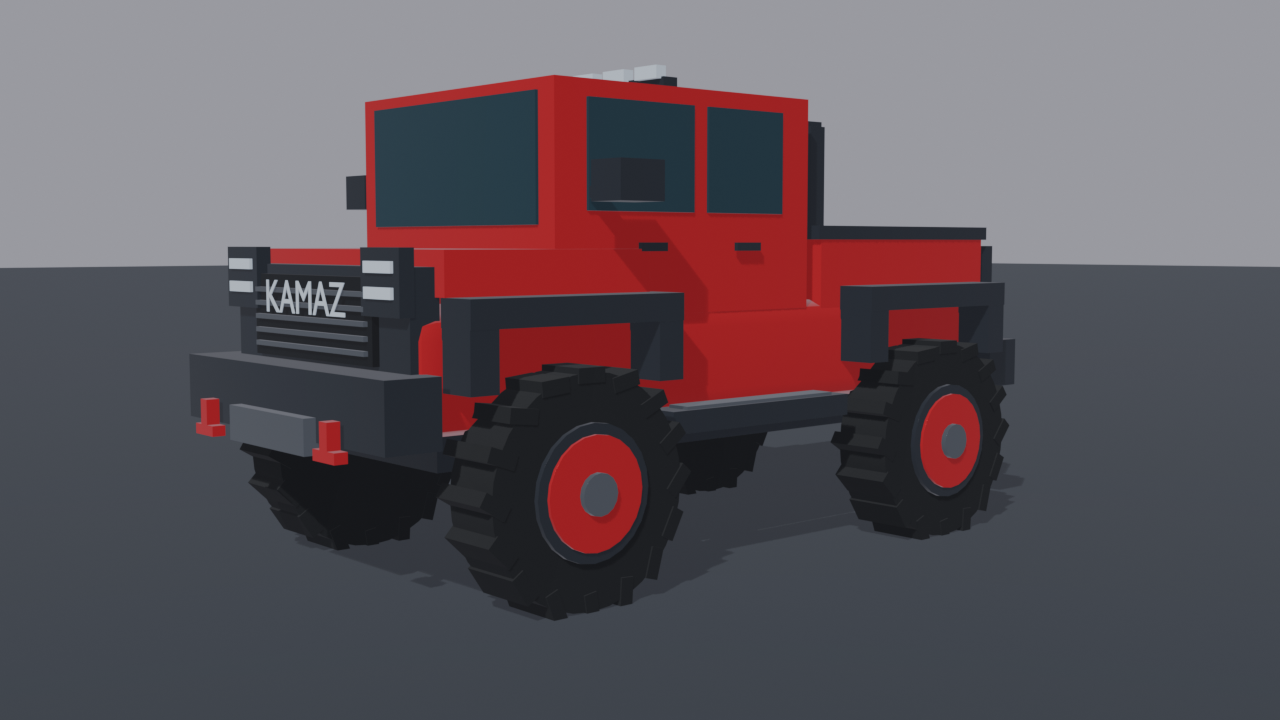
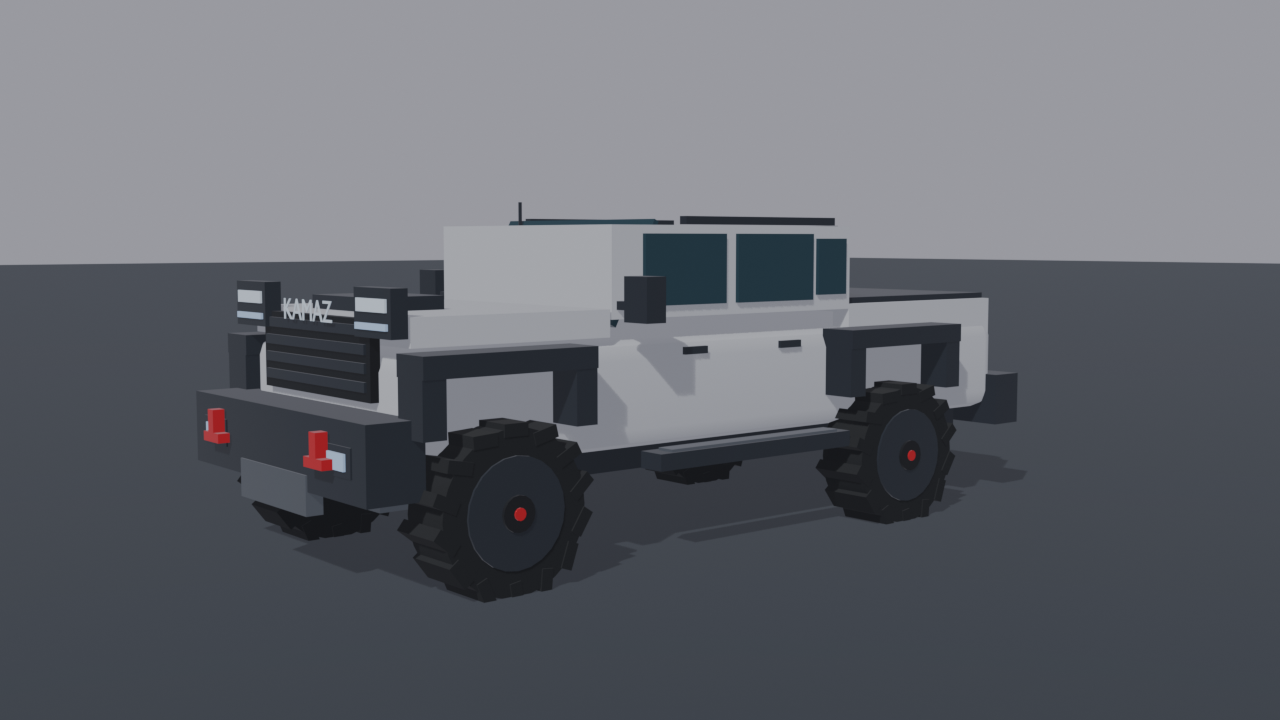
Fix запуска: чужой .sig (копия pakchunk44) давал Corrupt data found — README: ставить только .pak, sig удалён из релиза; Patch 2: блокаут переработан под референс Rager (двойная кабина, tonneau, лифт, обвес, рейлинги, DRL)

diff --git a/kamaz_scum_blockout.py b/kamaz_scum_blockout.py
@@ -24,13 +24,15 @@ def mat(name, color, metallic=0.0, roughness=0.45):
     bsdf.inputs['Roughness'].default_value = roughness
     return m
 
-RED = mat('Paint | KAMAZ Red', (0.72, 0.018, 0.028), 0.42, 0.25)
+BODY = mat('Paint | Urban Camo Light', (0.62, 0.64, 0.66), 0.12, 0.42)
+RED = mat('Accent | Tow Hook Red', (0.72, 0.018, 0.028), 0.42, 0.25)
 BLACK = mat('Trim | Graphite Black', (0.025, 0.032, 0.042), 0.22, 0.34)
 RUBBER = mat('Rubber', (0.012, 0.014, 0.016), 0.0, 0.82)
 GLASS = mat('Glass | Dark Tinted', (0.018, 0.055, 0.075), 0.18, 0.16)
 METAL = mat('Metal | Gunmetal', (0.16, 0.18, 0.20), 0.72, 0.3)
 WHITE = mat('LED | Cool White', (0.8, 0.92, 1.0), 0.15, 0.18)
 DARK = mat('Grille Recess', (0.006, 0.008, 0.01), 0.05, 0.5)
+DRL = mat('LED | Ice Blue', (0.55, 0.75, 1.0), 0.15, 0.2)
 
 # Collections for a tidy hierarchy
 root = bpy.context.scene.collection
@@ -81,103 +83,103 @@ def text_obj(name, body, loc, size, material, rot=(math.pi/2,0,0), extrude=0.002
     return ob
 
 # Chassis / underbody
-cube('Chassis | ladder frame', (0, 0.05, 0.82), (1.48, 3.95, 0.22), BLACK, 0.06)
-cube('Underbody skid plate', (0, -1.05, 0.68), (1.5, 0.8, 0.12), METAL, 0.04)
+cube('Chassis | ladder frame', (0, 0.1, 0.62), (1.42, 4.60, 0.18), BLACK, 0.06)
+cube('Underbody skid plate', (0, -1.90, 0.52), (1.40, 0.90, 0.10), METAL, 0.04)
 
-# Main body panels
-cube('Lower body shell', (0, 0.0, 1.18), (1.82, 4.25, 0.58), RED, 0.12)
-cube('Hood', (0, -1.38, 1.66), (1.88, 1.25, 0.22), RED, 0.10)
-cube('Front fascia', (0, -2.06, 1.40), (1.72, 0.16, 0.58), BLACK, 0.05)
+# Main body panels (Ranger Raptor-style proportions: long hood, double cab, long bed)
+cube('Lower body shell', (0, 0.15, 1.00), (1.84, 4.90, 0.64), BODY, 0.12)
+cube('Hood', (0, -1.62, 1.42), (1.80, 1.30, 0.16), BODY, 0.10)
+cube('Hood scoop', (0, -1.95, 1.53), (0.62, 0.50, 0.10), BLACK, 0.04)
 
-# Double cab: cabin body, windshield and rear glass
-cube('Cab shell', (0, -0.42, 2.02), (1.78, 1.82, 1.18), RED, 0.11)
-cube('Windshield dark glass', (0, -1.33, 2.22), (1.52, 0.035, 0.66), GLASS, 0.025)
-cube('Rear cab window', (0, 0.49, 2.22), (1.43, 0.035, 0.62), GLASS, 0.02)
-# Side windows on both sides, front and rear door windows
+# Double cab greenhouse: raked windshield, four door windows, quarter glass, rear glass
+cube('Cab shell', (0, 0.05, 1.71), (1.78, 2.00, 0.54), BODY, 0.11)
+windshield = cube('Windshield dark glass', (0, -0.66, 1.70), (1.50, 0.035, 0.70), GLASS, 0.025)
+windshield.rotation_euler[0] = math.radians(-28)
+cube('Rear cab window', (0, 1.05, 1.72), (1.42, 0.035, 0.50), GLASS, 0.02)
 for side in (-1, 1):
-    x = side * 0.89
-    cube(f'Front side window {side}', (x, -0.77, 2.24), (0.035, 0.72, 0.56), GLASS, 0.025)
-    cube(f'Rear side window {side}', (x, -0.02, 2.24), (0.035, 0.57, 0.56), GLASS, 0.025)
+    x = side * 0.90
+    cube(f'Front side window {side}', (x, -0.40, 1.72), (0.035, 0.64, 0.42), GLASS, 0.025)
+    cube(f'Rear side window {side}', (x, 0.35, 1.72), (0.035, 0.66, 0.42), GLASS, 0.025)
+    cube(f'Quarter window {side}', (x, 0.86, 1.72), (0.035, 0.26, 0.36), GLASS, 0.02)
     # door seam accents and handles
-    for y in (-0.72, -0.03):
-        cube(f'Door handle {side} {y}', (side*0.928, y, 1.78), (0.025, 0.18, 0.045), BLACK, 0.012)
-    cube(f'Side mirror arm {side}', (side*1.04, -1.10, 2.05), (0.23, 0.08, 0.06), BLACK, 0.02)
-    cube(f'Side mirror housing {side}', (side*1.17, -1.10, 2.10), (0.22, 0.28, 0.20), BLACK, 0.04)
+    for y in (-0.35, 0.45):
+        cube(f'Door handle {side} {y}', (side*0.935, y, 1.24), (0.025, 0.18, 0.045), BLACK, 0.012)
+    cube(f'Side mirror arm {side}', (side*0.97, -0.88, 1.52), (0.16, 0.07, 0.05), BLACK, 0.02)
+    cube(f'Side mirror housing {side}', (side*1.10, -0.88, 1.56), (0.20, 0.14, 0.26), BLACK, 0.04)
     # side steps
-    cube(f'Running board {side}', (side*0.99, -0.05, 0.88), (0.20, 1.35, 0.12), BLACK, 0.035)
-    cube(f'Step metal insert {side}', (side*1.00, -0.05, 0.948), (0.14, 1.12, 0.018), METAL, 0.008)
+    cube(f'Running board {side}', (side*1.00, 0.05, 0.62), (0.18, 1.60, 0.10), BLACK, 0.035)
+    cube(f'Step metal insert {side}', (side*1.01, 0.05, 0.678), (0.12, 1.40, 0.016), METAL, 0.008)
 
-# Pickup bed, rails and tailgate
-cube('Bed floor', (0, 1.40, 1.35), (1.62, 1.48, 0.12), BLACK, 0.035)
+# Pickup bed: body-color walls, black tonneau cover, tailgate lettering
+cube('Bed floor', (0, 1.80, 1.24), (1.56, 1.42, 0.06), BLACK, 0.035)
 for side in (-1,1):
-    cube(f'Bed side wall {side}', (side*0.82, 1.40, 1.60), (0.12, 1.55, 0.48), RED, 0.05)
-    cube(f'Bed top rail {side}', (side*0.82, 1.40, 1.86), (0.15, 1.62, 0.08), BLACK, 0.025)
-# Tailgate rear face
-cube('Tailgate', (0, 2.20, 1.57), (1.55, 0.12, 0.50), RED, 0.06)
-text_obj('Tailgate KAMAZ lettering', 'KAMAZ', (0, 2.267, 1.61), 0.24, BLACK, rot=(math.pi/2, 0, math.pi), extrude=0.001)
+    cube(f'Bed side wall {side}', (side*0.82, 1.80, 1.34), (0.14, 1.50, 0.26), BODY, 0.05)
+cube('Bed tonneau cover', (0, 1.80, 1.48), (1.66, 1.50, 0.06), BLACK, 0.025)
+cube('Tailgate', (0, 2.58, 1.28), (1.50, 0.12, 0.42), BODY, 0.06)
+text_obj('Tailgate KAMAZ lettering', 'KAMAZ', (0, 2.647, 1.31), 0.20, BLACK, rot=(math.pi/2, 0, math.pi), extrude=0.001)
 
-# Grille and brand lettering on front (front face is -Y)
-cube('Main grille recess', (0, -2.155, 1.43), (1.18, 0.045, 0.42), DARK, 0.025)
-for z in (1.28, 1.35, 1.42, 1.49, 1.56):
-    cube(f'Grille horizontal slat {z}', (0, -2.184, z), (1.10, 0.035, 0.025), METAL, 0.008)
-text_obj('Front KAMAZ lettering', 'KAMAZ', (0, -2.215, 1.52), 0.24, WHITE, rot=(math.pi/2,0,0), extrude=0.002)
-# Headlights and lower fog lamps
+# Grille, lettering and headlights on the -Y face
+cube('Main grille recess', (0, -2.32, 1.26), (1.24, 0.06, 0.44), DARK, 0.025)
+for z in (1.12, 1.22, 1.32, 1.42):
+    cube(f'Grille horizontal slat {z}', (0, -2.348, z), (1.16, 0.035, 0.055), BLACK, 0.012)
+text_obj('Front KAMAZ lettering', 'KAMAZ', (0, -2.392, 1.50), 0.17, WHITE, rot=(math.pi/2,0,0), extrude=0.002)
+# Angular LED headlamps with ice-blue DRL strips, fog lamps in the bumper
 for side in (-1,1):
-    cube(f'Headlamp housing {side}', (side*0.70, -2.16, 1.62), (0.34, 0.08, 0.32), BLACK, 0.035)
-    cube(f'Headlamp LED upper {side}', (side*0.70, -2.208, 1.69), (0.24, 0.018, 0.055), WHITE, 0.012)
-    cube(f'Headlamp LED lower {side}', (side*0.70, -2.208, 1.57), (0.24, 0.018, 0.055), WHITE, 0.012)
-    cube(f'Fog lamp housing {side}', (side*0.70, -2.12, 1.10), (0.38, 0.12, 0.18), BLACK, 0.025)
-    for i in range(3):
-        cyl(f'Fog LED {side} {i}', (side*0.70 + (i-1)*0.095, -2.195, 1.10), 0.035, 0.018, WHITE, vertices=12, rot=(math.pi/2,0,0))
+    cube(f'Headlamp housing {side}', (side*0.72, -2.34, 1.52), (0.38, 0.10, 0.26), BLACK, 0.035)
+    cube(f'Headlamp LED main {side}', (side*0.72, -2.394, 1.56), (0.30, 0.018, 0.07), WHITE, 0.012)
+    cube(f'Headlamp DRL strip {side}', (side*0.72, -2.396, 1.45), (0.32, 0.018, 0.035), DRL, 0.012)
+    cube(f'Fog lamp housing {side}', (side*0.74, -2.55, 0.78), (0.30, 0.14, 0.16), BLACK, 0.025)
+    cube(f'Fog LED {side}', (side*0.74, -2.625, 0.78), (0.20, 0.018, 0.09), DRL, 0.012)
 
-# Front and rear armored bumpers
-cube('Front armored bumper', (0, -2.22, 1.03), (2.02, 0.30, 0.34), BLACK, 0.07)
-cube('Front bumper center skid', (0, -2.395, 0.89), (0.78, 0.08, 0.18), METAL, 0.035)
-cube('Rear armored bumper', (0, 2.28, 1.02), (1.98, 0.28, 0.30), BLACK, 0.06)
-# Tow shackles (stylized as red bars + bottom bar)
-for y, label in ((-2.43,'Front'), (2.45,'Rear')):
+# Front and rear armored bumpers with skid plates
+cube('Front armored bumper', (0, -2.44, 0.78), (2.06, 0.34, 0.42), BLACK, 0.07)
+cube('Front bumper center skid', (0, -2.57, 0.55), (0.80, 0.10, 0.22), METAL, 0.035)
+cube('Rear armored bumper', (0, 2.64, 0.74), (2.00, 0.26, 0.36), BLACK, 0.06)
+cube('Rear bumper skid', (0, 2.72, 0.50), (0.70, 0.08, 0.14), METAL, 0.035)
+# Red tow shackles in both bumpers
+for y, label in ((-2.66,'Front'), (2.81,'Rear')):
     for side in (-1,1):
         x = side*0.63
-        cube(f'{label} tow shackle stem {side}', (x, y, 0.91), (0.07, 0.07, 0.16), RED, 0.025)
-        cube(f'{label} tow shackle base {side}', (x, y, 0.83), (0.20, 0.07, 0.055), RED, 0.025)
+        cube(f'{label} tow shackle stem {side}', (x, y, 0.84), (0.07, 0.07, 0.16), RED, 0.025)
+        cube(f'{label} tow shackle base {side}', (x, y, 0.76), (0.20, 0.07, 0.055), RED, 0.025)
 
-# Wheels: four chunky tires, rims, red rings and simplified tread blocks
-wheel_y = (-1.35, 1.42)
-wheel_z = 0.61
+# Wheels: lifted stance, chunky mud-terrain tires, gunmetal rims, red hub caps
+wheel_y = (-1.80, 1.35)
+wheel_z = 0.47
 for axle, y in enumerate(wheel_y):
     for side in (-1,1):
-        x = side*1.02
+        x = side*0.98
         # Cylinder axis is X (rotated 90 degrees around Y)
-        tire = cyl(f'Tire | axle {axle+1} | side {side}', (x, y, wheel_z), 0.58, 0.34, RUBBER, vertices=32, rot=(0, math.pi/2, 0))
-        rim = cyl(f'Wheel rim | axle {axle+1} | side {side}', (x + side*0.18, y, wheel_z), 0.34, 0.035, BLACK, vertices=24, rot=(0, math.pi/2, 0))
-        ring = cyl(f'Red rim ring | axle {axle+1} | side {side}', (x + side*0.202, y, wheel_z), 0.285, 0.025, RED, vertices=24, rot=(0, math.pi/2, 0))
-        hub = cyl(f'Hub | axle {axle+1} | side {side}', (x + side*0.225, y, wheel_z), 0.105, 0.04, METAL, vertices=16, rot=(0, math.pi/2, 0))
+        tire = cyl(f'Tire | axle {axle+1} | side {side}', (x, y, wheel_z), 0.45, 0.34, RUBBER, vertices=32, rot=(0, math.pi/2, 0))
+        rim = cyl(f'Wheel rim | axle {axle+1} | side {side}', (x + side*0.155, y, wheel_z), 0.29, 0.04, METAL, vertices=24, rot=(0, math.pi/2, 0))
+        ring = cyl(f'Rim lip | axle {axle+1} | side {side}', (x + side*0.175, y, wheel_z), 0.305, 0.02, BLACK, vertices=24, rot=(0, math.pi/2, 0))
+        hub = cyl(f'Hub | axle {axle+1} | side {side}', (x + side*0.178, y, wheel_z), 0.10, 0.05, DARK, vertices=16, rot=(0, math.pi/2, 0))
+        cap = cyl(f'Hub cap | axle {axle+1} | side {side}', (x + side*0.203, y, wheel_z), 0.035, 0.02, RED, vertices=12, rot=(0, math.pi/2, 0))
         # Tread lugs arranged around the tire circumference; deliberately low-detail for game blockout
-        for j in range(16):
-            a = 2*math.pi*j/16
-            yy = y + 0.565*math.sin(a)
-            zz = wheel_z + 0.565*math.cos(a)
-            lug = cube(f'Tread lug {axle}-{side}-{j}', (x, yy, zz), (0.36, 0.16, 0.075), RUBBER, 0.018)
+        for j in range(14):
+            a = 2*math.pi*j/14
+            yy = y + 0.44*math.sin(a)
+            zz = wheel_z + 0.44*math.cos(a)
+            lug = cube(f'Tread lug {axle}-{side}-{j}', (x, yy, zz), (0.36, 0.15, 0.07), RUBBER, 0.018)
             lug.rotation_euler[0] = a * 0.55
-        # Fender flares: broad simplified arches represented by upper and side armor pieces
-        cube(f'Fender flare top {axle}-{side}', (side*1.02, y, 1.48), (0.24, 1.30, 0.14), BLACK, 0.045)
-        cube(f'Fender flare front cheek {axle}-{side}', (side*1.02, y-0.57, 1.30), (0.23, 0.16, 0.38), BLACK, 0.035)
-        cube(f'Fender flare rear cheek {axle}-{side}', (side*1.02, y+0.57, 1.30), (0.23, 0.16, 0.38), BLACK, 0.035)
+        # Fender flares: broad black arches over each wheel
+        cube(f'Fender flare top {axle}-{side}', (side*1.02, y, 1.26), (0.26, 1.10, 0.12), BLACK, 0.045)
+        cube(f'Fender flare front cheek {axle}-{side}', (side*1.02, y-0.48, 1.06), (0.24, 0.14, 0.34), BLACK, 0.035)
+        cube(f'Fender flare rear cheek {axle}-{side}', (side*1.02, y+0.48, 1.06), (0.24, 0.14, 0.34), BLACK, 0.035)
 
-# Roof rack / light bar
-cube('Roof light bar support', (0, -0.35, 2.66), (1.30, 0.10, 0.07), BLACK, 0.025)
-for i in range(5):
-    x = (i-2)*0.27
-    cube(f'Roof LED {i}', (x, -0.40, 2.72), (0.18, 0.07, 0.07), WHITE, 0.018)
-# Rear sports bar / bed roll bar
+# Roof rails and antenna
 for side in (-1,1):
-    cube(f'Roll bar upright {side}', (side*0.70, 0.73, 2.02), (0.10, 0.12, 0.92), BLACK, 0.04)
-cube('Roll bar cross member', (0, 0.73, 2.45), (1.45, 0.12, 0.12), BLACK, 0.05)
+    cube(f'Roof rail {side}', (side*0.80, 0.32, 2.01), (0.06, 1.30, 0.05), BLACK, 0.02)
+cyl('Roof antenna', (-0.58, -0.55, 2.05), 0.012, 0.18, BLACK, vertices=8, rot=(0,0,0))
+# Sports bar behind the cab (black, just below the roof line)
+for side in (-1,1):
+    cube(f'Roll bar upright {side}', (side*0.62, 1.12, 1.70), (0.09, 0.10, 0.55), BLACK, 0.04)
+cube('Roll bar cross member', (0, 1.12, 1.94), (1.35, 0.10, 0.09), BLACK, 0.05)
 
-# Rear lamps
+# Rear lamps on the tailgate face
 for side in (-1,1):
-    cube(f'Tail lamp housing {side}', (side*0.79, 2.275, 1.57), (0.18, 0.05, 0.42), BLACK, 0.025)
-    cube(f'Tail lamp red strip {side}', (side*0.79, 2.307, 1.61), (0.105, 0.018, 0.25), RED, 0.018)
+    cube(f'Tail lamp housing {side}', (side*0.60, 2.655, 1.28), (0.16, 0.05, 0.36), BLACK, 0.025)
+    cube(f'Tail lamp red strip {side}', (side*0.60, 2.682, 1.30), (0.105, 0.018, 0.25), RED, 0.018)
 
 # Camera-friendly floor and lighting, so the scene opens ready to inspect
 floor_mat = mat('Studio floor', (0.055, 0.065, 0.078), 0.15, 0.62)
@@ -262,9 +264,9 @@ if out_dir:
 
     # Simple convex collision hulls (UE UCX_ prefix), positioned from known dims
     ucx = [
-        cube('UCX_KAMAZ_Pickup_Blockout_01', (0, 0.0, 1.18), (1.90, 4.35, 0.70), None, 0),
-        cube('UCX_KAMAZ_Pickup_Blockout_02', (0, -0.42, 2.02), (1.85, 1.90, 1.25), None, 0),
-        cube('UCX_KAMAZ_Pickup_Blockout_03', (0, 1.40, 1.60), (1.70, 1.65, 0.55), None, 0),
+        cube('UCX_KAMAZ_Pickup_Blockout_01', (0, 0.15, 1.00), (1.92, 5.20, 0.72), None, 0),
+        cube('UCX_KAMAZ_Pickup_Blockout_02', (0, 0.05, 1.70), (1.84, 2.10, 0.68), None, 0),
+        cube('UCX_KAMAZ_Pickup_Blockout_03', (0, 1.80, 1.30), (1.72, 1.60, 0.55), None, 0),
     ]
     for u in ucx:
         u.hide_render = True
@@ -326,9 +328,9 @@ if out_dir:
     scene.world.node_tree.nodes['Background'].inputs[0].default_value = (0.35, 0.35, 0.40, 1.0)
 
     shots = {
-        'preview_front34.png': (6.4, -5.6, 1.8),
-        'preview_side.png': (8.6, 0.0, 1.6),
-        'preview_rear34.png': (-6.2, 6.6, 2.5),
+        'preview_front34.png': (7.2, -6.0, 1.9),
+        'preview_side.png': (9.6, 0.1, 1.7),
+        'preview_rear34.png': (-6.6, 7.4, 2.6),
     }
     for fname, loc in shots.items():
         cam.location = loc

diff --git a/README.md b/README.md
@@ -27,9 +27,14 @@
 - **Patch 2 — Blockout-меш** — 🔶 в работе
   - Blender → glTF → UE 4.27 → pak. Правка багов `kamaz_scum_blockout.py`
     (wheel_z 0.78→0.61, EEVEE-фолбэк, кватернион камеры, разворот надписи, парящие стёкла, UV/LOD/коллизии/сокеты).
-  - Готово: блокаут сгенерирован и отрендерен — LOD0 (2560 verts / 3984 tris) + LOD1 0.5 + LOD2 0.25,
+  - Готово: блокаут сгенерирован и отрендерен — LOD0 (2456 verts / 3816 tris) + LOD1 0.5 + LOD2 0.25,
     3 UCX-бокса коллизий, smart UV 66°; экспорт FBX + glTF + UV-развёртка;
     превью (UCX/LOD скрыты из рендера): [Docs/renders/](Docs/renders) — front 3/4, side, rear 3/4.
+  - Пропорции приведены к референсу Rager ([Refs/Rager_reference.png](Refs/Rager_reference.png)):
+    двойная кабина на 4 двери, длинный кузов с чёрной крышкой (tonneau), лифтованная посадка,
+    большие грязевые колёса, чёрный обвес (арки, пороги, бампер с защитой), рейлинги с антенной,
+    спорт-бар за кабиной, LED-оптика с голубыми ХОГ, красные буксировочные проушины.
+    Кузов — светло-серый под камуфляж (окраска/ливрея — Patch 4).
   - Далее: подмена меша донора на свой (путь импорта в PAK — pkg/modshare/UE 4.27, исследуется).
 - **Patch 3 — Скелет под запчасти**
   - Сокеты/кости под аттачменты запчастей: Engine, Battery, Alternator, 4×Wheel, Doors, Body, Bumpers, Dashboard.
@@ -40,7 +45,7 @@
 
 Готовый PAK — в [Releases](https://github.com/bLemann/SCUM-Pickup-KAMAZ/releases).
 
-1. Скопировать `pakchunk900-KAMAZ_P.pak` и `pakchunk900-KAMAZ_P.sig` в `SCUM\SCUM\Content\Paks\~mods\`.
+1. Скопировать `pakchunk900-KAMAZ_P.pak` в `SCUM\SCUM\Content\Paks\~mods\`. **Файл `.sig` не нужен — удалите его, если ставили:** `project export` подкладывает рядом с паком копию чужой стоковой сигнатуры (`pakchunk44`), с ней игра показывает «Serialization Error: Corrupt data found» и не запускается.
 2. Запуск с параметрами: `-fileopenlog` и отключённым BattlEye (для одиночки).
 3. Заспавнить транспорт командой (см. ниже).
 
